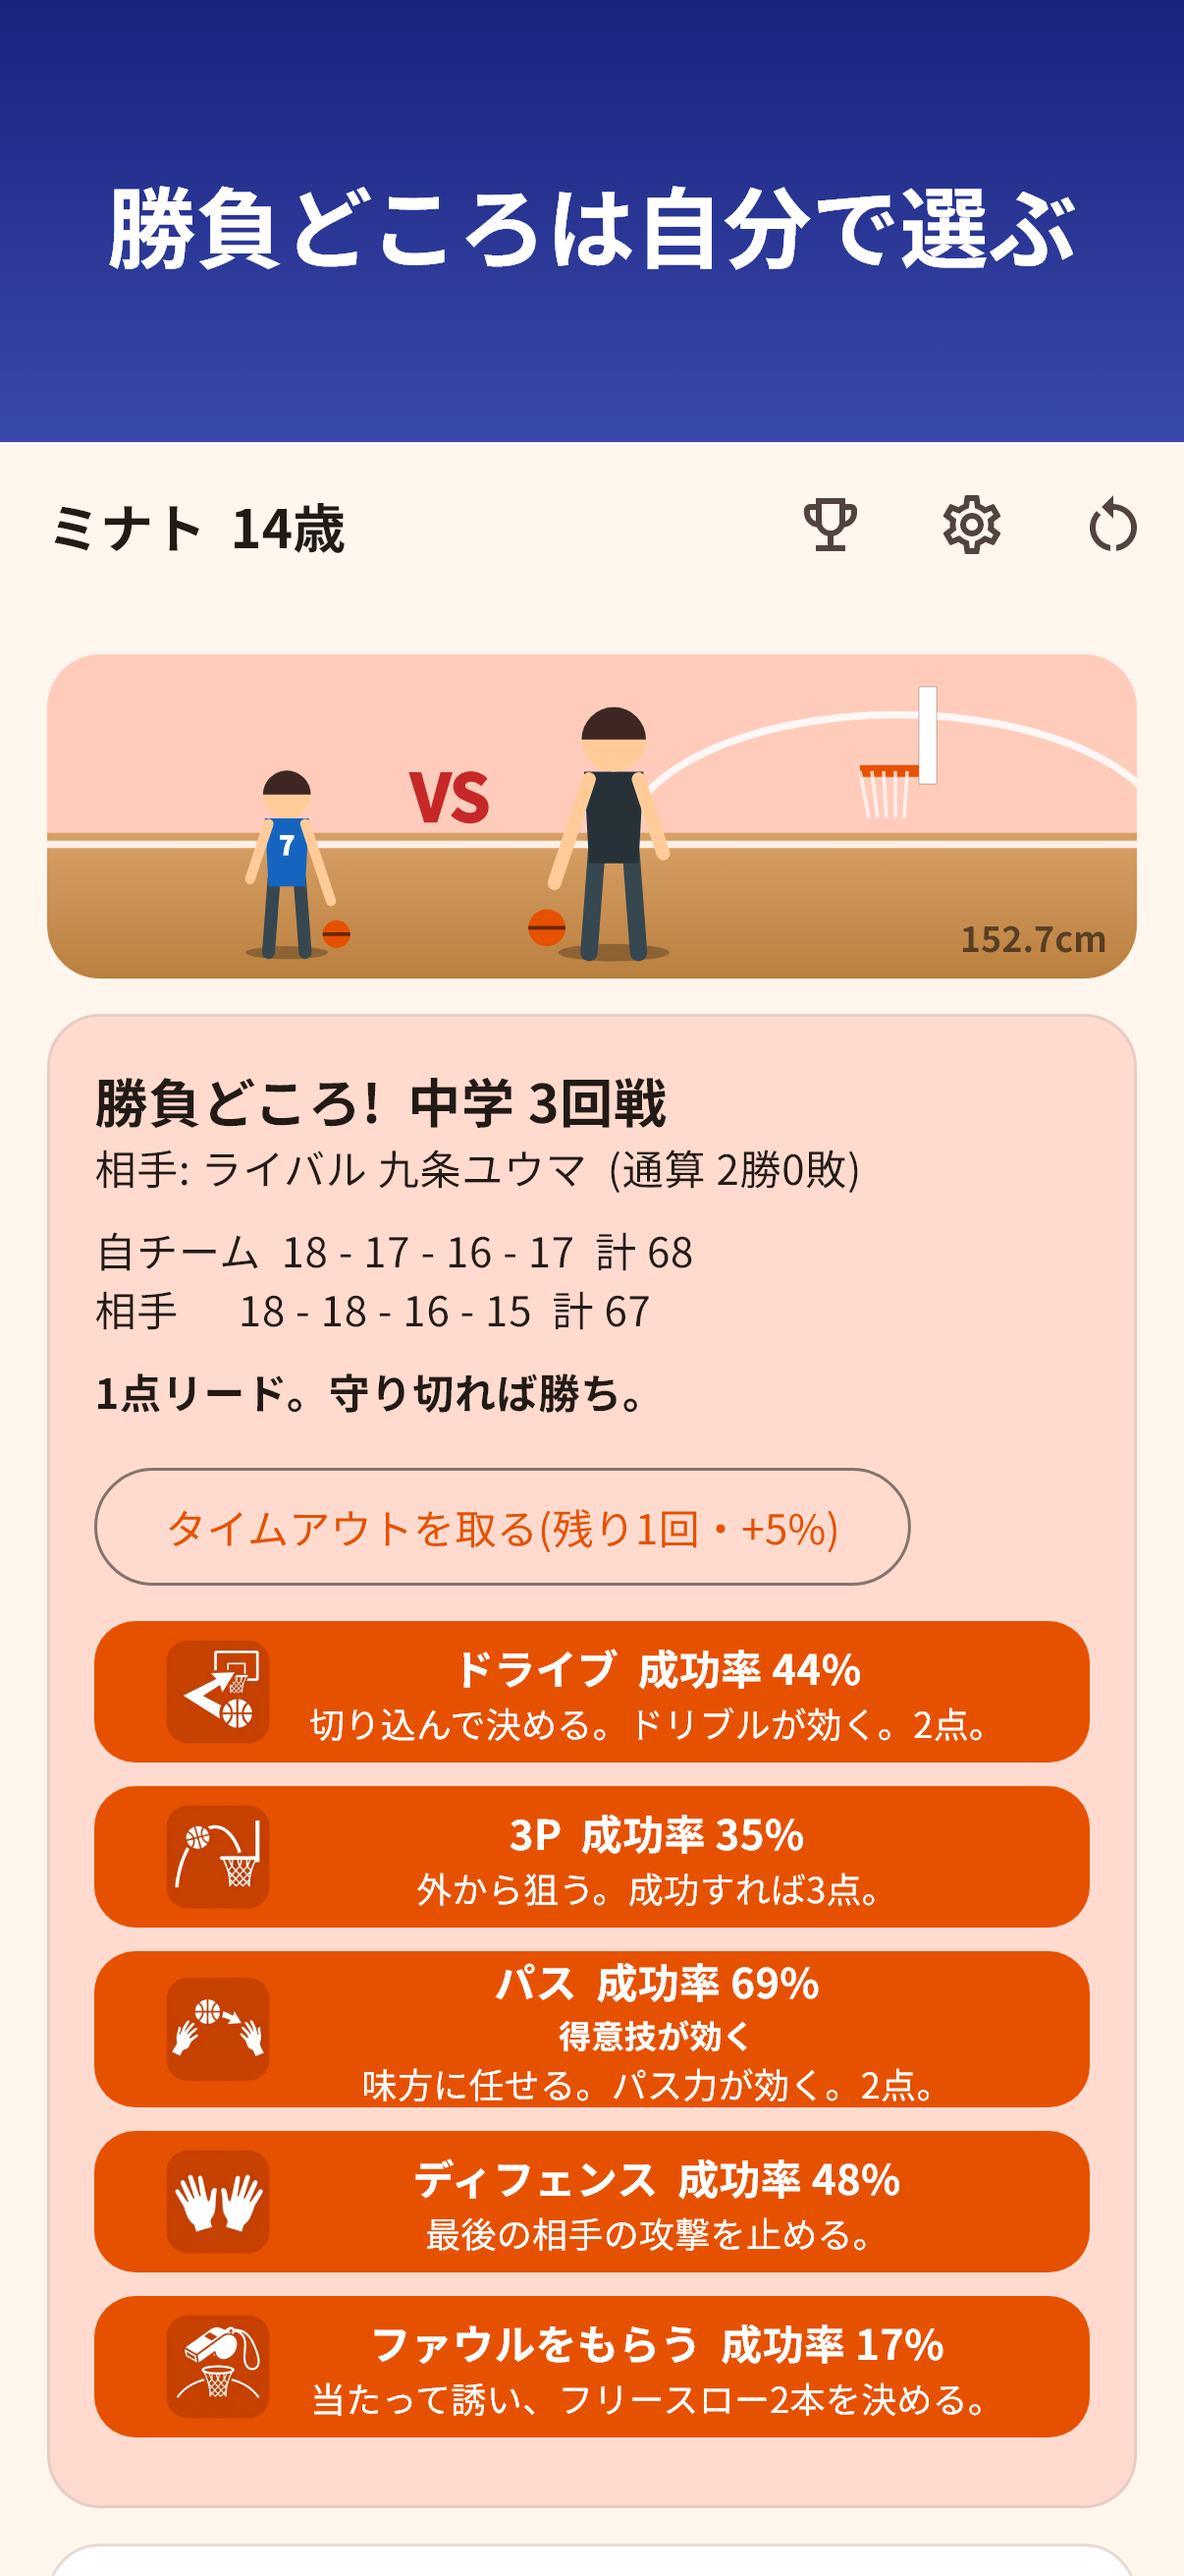
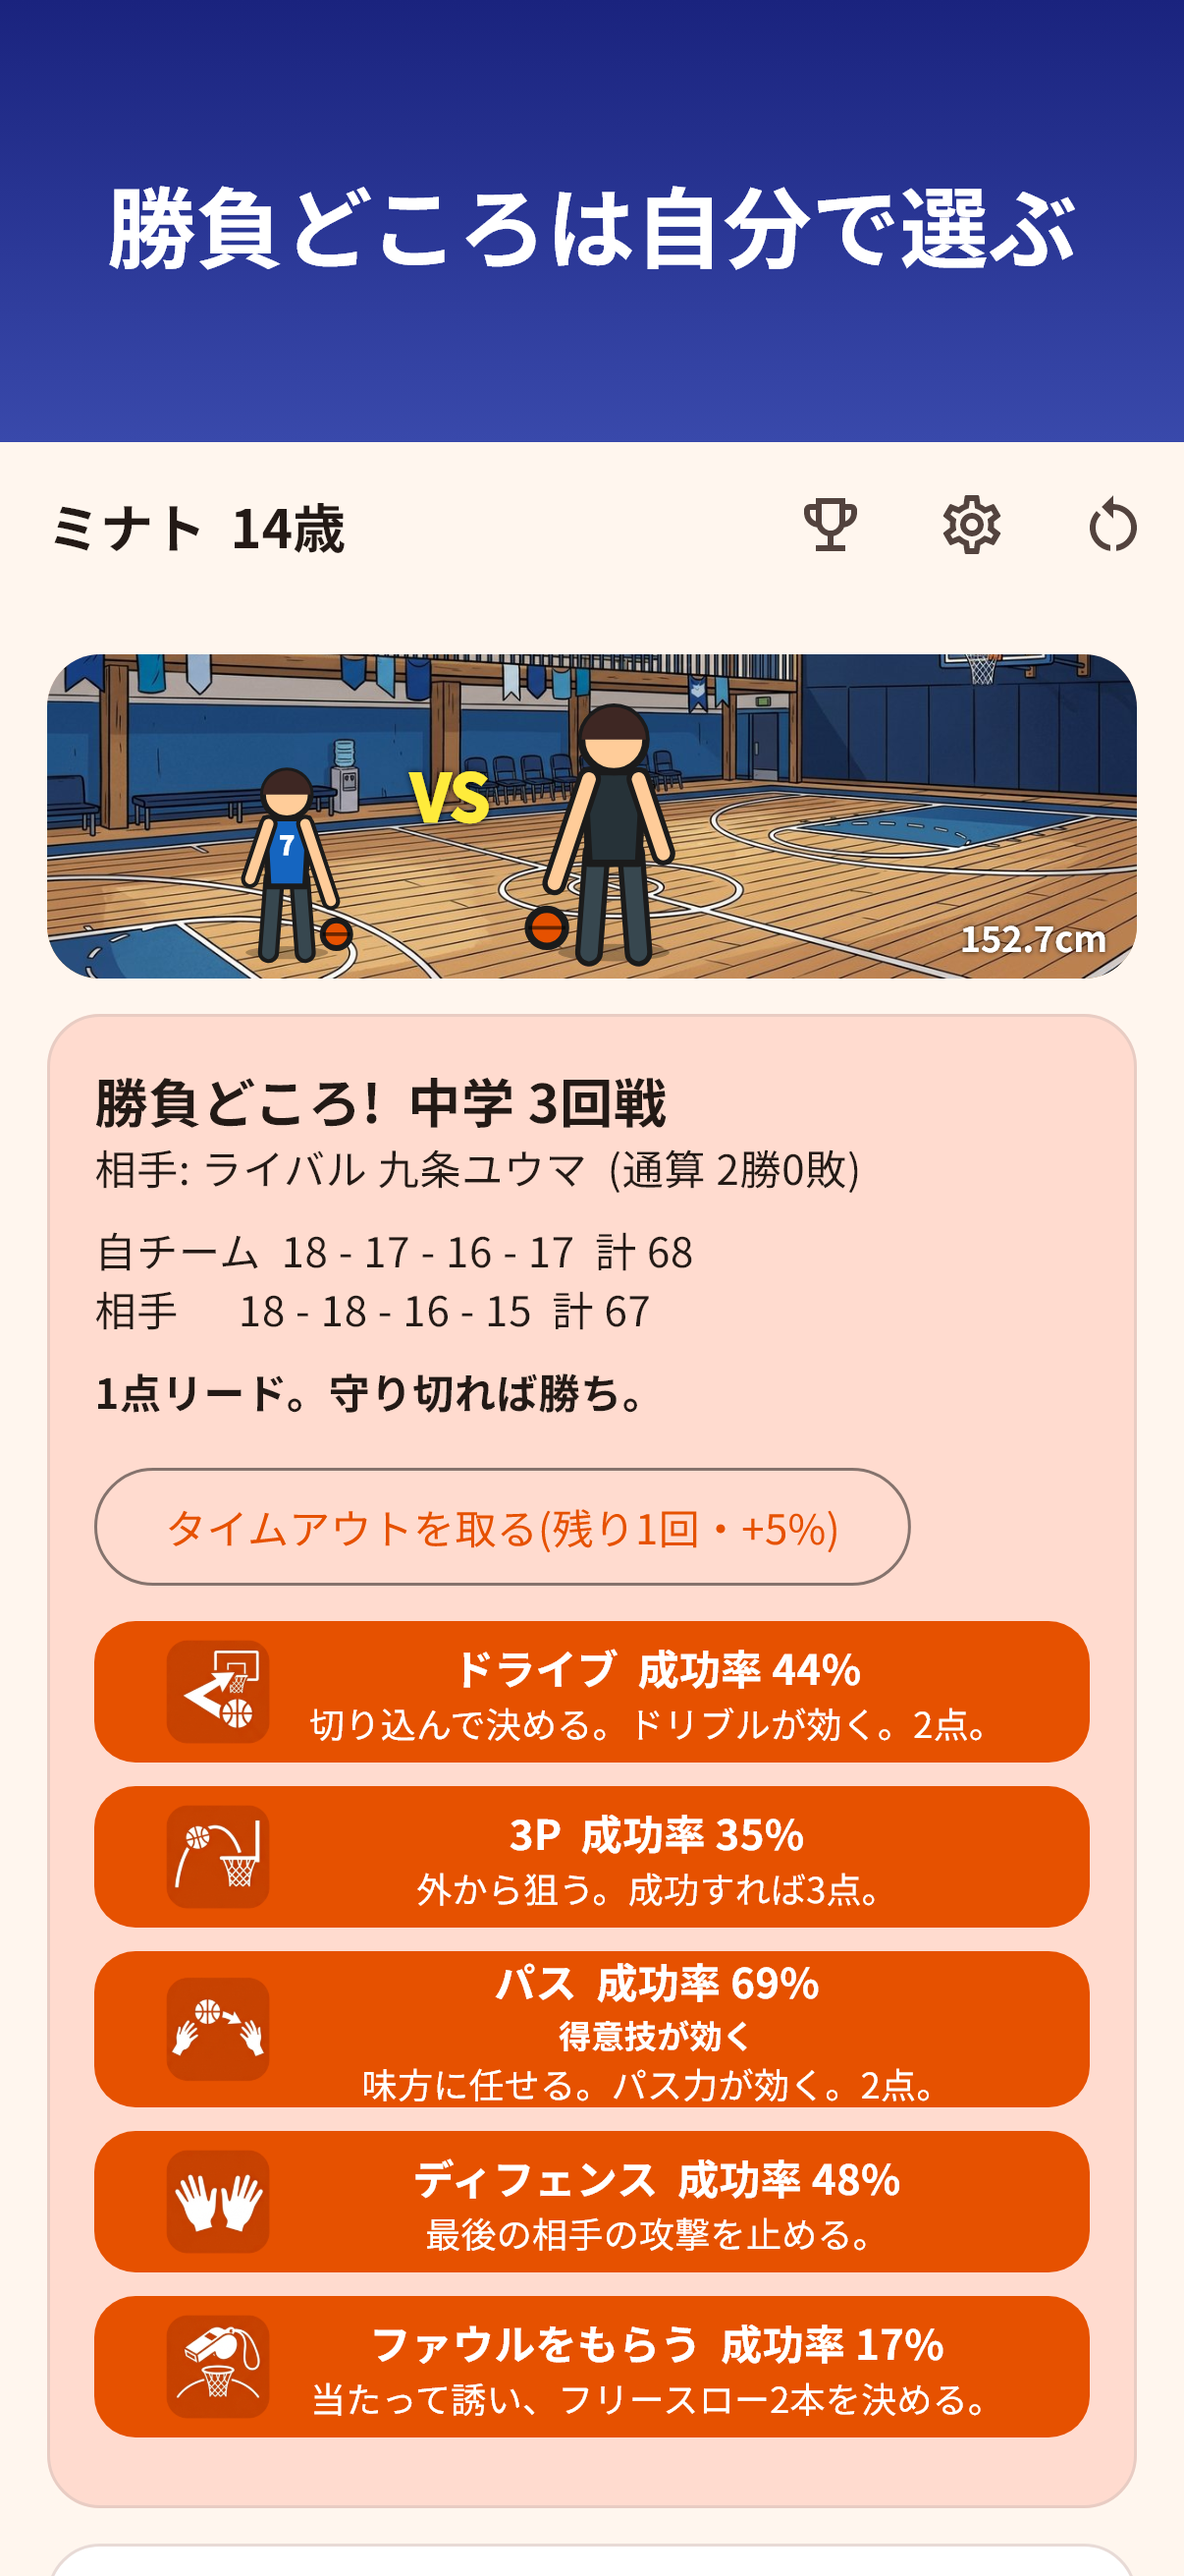
basketball-career: 育成画面の上の絵を、段階ごとの会場の絵(Gemini 生成8枚)に差し替える (#724)
- 小学校・中学・高校・大学・実業団・国内プロ・海外プロ・日本代表(冬の招集)の会場を8枚、assets/art/scene_*.jpg に追加(各約200KB、1200x600)。sceneAsset(Game) が段階から選ぶ
- 選手は背景の絵と画風をそろえるため太い輪郭線を付け、身長の数字とVSは暗い会場でも読めるよう白・黄に影付きにした。絵が読み込めない間・失敗時は従来のコード描画の体育館に戻る(空白にしない)
- 絵の高さを150から190に広げた
- 絵の置き忘れテスト(art_assets_test)を8枚に拡張し、全リーグに会場の絵があることを検査

影響範囲: projects/basketball-career のみ。TestFlight にはまだ上げない

Changed region(s): [[0.0307, 0.2471, 0.9818, 0.4016]]

diff --git a/projects/basketball-career/lib/ui/art/court.dart b/projects/basketball-career/lib/ui/art/court.dart
@@ -3,12 +3,13 @@ import 'dart:math';
 import 'package:flutter/material.dart';
 
 import '../../game/game.dart';
+import '../../game/season.dart';
 
 /// 育成画面の上に出す絵。体育館の床・ゴール・選手をコードで描く(画像は使わない)。
 /// 選手の大きさは身長に比例し、ユニフォームの色は所属で変わる。
 class CourtHeader extends StatelessWidget {
   const CourtHeader(
-      {super.key, required this.game, this.height = 150, this.versus = false});
+      {super.key, required this.game, this.height = 190, this.versus = false});
   final Game game;
   final double height;
 
@@ -22,19 +23,63 @@ class CourtHeader extends StatelessWidget {
       child: SizedBox(
         height: height,
         width: double.infinity,
-        child: CustomPaint(
-          painter: _CourtPainter(
-            heightCm: game.player.heightCm,
-            jersey: jerseyColor(game.track, game.player.age),
-            slot: game.slot,
-            versus: versus,
-            number: game.number,
-          ),
+        child: Stack(
+          fit: StackFit.expand,
+          children: [
+            // 下地はコードで描いた体育館。絵が読み込めない間・失敗したときはこれが見える。
+            CustomPaint(
+              painter: _CourtPainter(
+                heightCm: game.player.heightCm,
+                jersey: jerseyColor(game.track, game.player.age),
+                slot: game.slot,
+                versus: versus,
+                number: game.number,
+                layer: _Layer.background,
+              ),
+            ),
+            // 段階ごとの会場の絵(Gemini で生成。`assets/art/scene_*.jpg`)。
+            Image.asset(
+              sceneAsset(game),
+              fit: BoxFit.cover,
+              alignment: Alignment.bottomCenter,
+              frameBuilder: (context, child, frame, sync) =>
+                  (frame == null && !sync) ? const SizedBox.shrink() : child,
+              errorBuilder: (_, __, ___) => const SizedBox.shrink(),
+            ),
+            CustomPaint(
+              painter: _CourtPainter(
+                heightCm: game.player.heightCm,
+                jersey: jerseyColor(game.track, game.player.age),
+                slot: game.slot,
+                versus: versus,
+                number: game.number,
+                layer: _Layer.foreground,
+              ),
+            ),
+          ],
         ),
       ),
     );
   }
 }
+
+/// いまの段階の会場の絵。大学・実業団・プロは所属、プロは海外、冬の代表招集は代表の会場。
+String sceneAsset(Game g) {
+  final national = g.nationalPending && g.slot == 3 && g.track == Track.pro;
+  final name = switch (national ? League.national : g.league) {
+    League.minibasket => 'minibasket',
+    League.juniorHigh => 'junior',
+    League.highSchool => 'high',
+    League.university => 'university',
+    League.corporate => 'corporate',
+    League.proDomestic => 'pro',
+    League.proAbroad => 'abroad',
+    League.national => 'national',
+  };
+  return 'assets/art/scene_$name.jpg';
+}
+
+enum _Layer { background, foreground }
 
 /// 所属ごとのユニフォーム色。
 Color jerseyColor(Track t, int age) => switch (t) {
@@ -54,7 +99,9 @@ class _CourtPainter extends CustomPainter {
       required this.jersey,
       required this.slot,
       this.versus = false,
-      this.number = 0});
+      this.number = 0,
+      this.layer = _Layer.background});
+  final _Layer layer;
   final double heightCm;
   final Color jersey;
   final int slot;
@@ -64,6 +111,10 @@ class _CourtPainter extends CustomPainter {
   @override
   void paint(Canvas canvas, Size size) {
     final w = size.width, h = size.height;
+    if (layer == _Layer.foreground) {
+      _paintPlayers(canvas, size);
+      return;
+    }
 
     // 壁(季節で少し色を変える)と床。
     final wall = [
@@ -120,6 +171,11 @@ class _CourtPainter extends CustomPainter {
           Offset(rim.dx + 3 + i * 3, rim.dy + 16), net);
     }
 
+  }
+
+  /// 絵(または下地)の上に、選手・VS・身長を重ねる。
+  void _paintPlayers(Canvas canvas, Size size) {
+    final w = size.width, h = size.height;
     // 選手。身長 210cm のとき床から壁近くまで、115cm のとき小さく。
     final scale = (heightCm / 210).clamp(0.5, 1.05);
     final figureH = h * 0.78 * scale;
@@ -135,9 +191,10 @@ class _CourtPainter extends CustomPainter {
           text: 'VS',
           style: TextStyle(
               fontFamily: 'NotoSansJP',
-              color: Color(0xFFC62828),
+              color: Color(0xFFFFEB3B),
               fontSize: 22,
-              fontWeight: FontWeight.w900),
+              fontWeight: FontWeight.w900,
+              shadows: [Shadow(color: Colors.black87, blurRadius: 5)]),
         ),
         textDirection: TextDirection.ltr,
       )..layout();
@@ -150,9 +207,10 @@ class _CourtPainter extends CustomPainter {
         text: '${heightCm.toStringAsFixed(1)}cm',
         style: const TextStyle(
             fontFamily: 'NotoSansJP',
-            color: Colors.black54,
+            color: Colors.white,
             fontSize: 12,
-            fontWeight: FontWeight.bold),
+            fontWeight: FontWeight.bold,
+            shadows: [Shadow(color: Colors.black87, blurRadius: 4)]),
       ),
       textDirection: TextDirection.ltr,
     )..layout();
@@ -182,8 +240,25 @@ class _CourtPainter extends CustomPainter {
         Rect.fromCenter(center: foot, width: fh * 0.45, height: fh * 0.07),
         Paint()..color = Colors.black26);
 
+    // 太い輪郭線(背景の絵と画風をそろえる)。
+    final ink = Paint()
+      ..color = const Color(0xFF1B1B1B)
+      ..style = PaintingStyle.stroke
+      ..strokeWidth = max(2.0, fh * 0.03)
+      ..strokeJoin = StrokeJoin.round
+      ..strokeCap = StrokeCap.round;
+
     // 脚。
     final legW = fh * 0.07;
+    for (final dx in [-1.0, 1.0]) {
+      canvas.drawLine(
+          hip + Offset(dx * legW, 0),
+          foot + Offset(dx * fh * 0.10, 0),
+          Paint()
+            ..color = ink.color
+            ..strokeWidth = legW + ink.strokeWidth * 1.4
+            ..strokeCap = StrokeCap.round);
+    }
     canvas.drawLine(hip + Offset(-legW, 0), foot + Offset(-fh * 0.10, 0),
         dark..strokeWidth = legW..strokeCap = StrokeCap.round);
     canvas.drawLine(hip + Offset(legW, 0), foot + Offset(fh * 0.10, 0),
@@ -197,6 +272,7 @@ class _CourtPainter extends CustomPainter {
       ..lineTo(hip.dx - fh * 0.10, hip.dy + fh * 0.04)
       ..close();
     canvas.drawPath(body, shirt);
+    canvas.drawPath(body, ink);
     // 背番号(胴の中央)。
     if (number > 0 && !flip) {
       final tp = TextPainter(
@@ -217,6 +293,13 @@ class _CourtPainter extends CustomPainter {
 
     // 腕と、ボール。
     final hand = Offset(foot.dx + fh * 0.24, hip.dy + fh * 0.12);
+    final armInk = Paint()
+      ..color = ink.color
+      ..strokeWidth = fh * 0.055 + ink.strokeWidth * 1.4
+      ..strokeCap = StrokeCap.round;
+    canvas.drawLine(neck + Offset(fh * 0.10, fh * 0.03), hand, armInk);
+    canvas.drawLine(neck + Offset(-fh * 0.10, fh * 0.03),
+        Offset(foot.dx - fh * 0.20, hip.dy), armInk);
     final armPaint = Paint()
       ..color = skin.color
       ..strokeWidth = fh * 0.055
@@ -227,11 +310,13 @@ class _CourtPainter extends CustomPainter {
         Offset(foot.dx - fh * 0.20, hip.dy), armPaint);
     final ball = Offset(hand.dx + fh * 0.03, foot.dy - fh * 0.10);
     canvas.drawCircle(ball, fh * 0.075, Paint()..color = const Color(0xFFE65100));
+    canvas.drawCircle(ball, fh * 0.075, ink);
     canvas.drawLine(ball + Offset(-fh * 0.075, 0), ball + Offset(fh * 0.075, 0),
         Paint()..color = Colors.black54..strokeWidth = 1.2);
 
     // 頭。
     canvas.drawCircle(neck + Offset(0, -head), head, skin);
+    canvas.drawCircle(neck + Offset(0, -head), head, ink);
     canvas.drawArc(
       Rect.fromCircle(center: neck + Offset(0, -head), radius: head),
       pi,
@@ -248,5 +333,6 @@ class _CourtPainter extends CustomPainter {
       old.jersey != jersey ||
       old.slot != slot ||
       old.versus != versus ||
+      old.layer != layer ||
       old.number != number;
 }

diff --git a/projects/basketball-career/test/art_assets_test.dart b/projects/basketball-career/test/art_assets_test.dart
@@ -4,6 +4,7 @@ import 'dart:io';
 
 import 'package:basketball_career/game/life.dart';
 import 'package:basketball_career/game/match.dart';
+import 'package:basketball_career/game/season.dart';
 import 'package:flutter_test/flutter_test.dart';
 
 void main() {
@@ -13,6 +14,15 @@ void main() {
     'ending_quiet',
     'path',
     'hall',
+    // 段階ごとの会場(育成画面の上の絵。`sceneAsset` が選ぶ)。
+    'scene_minibasket',
+    'scene_junior',
+    'scene_high',
+    'scene_university',
+    'scene_corporate',
+    'scene_pro',
+    'scene_abroad',
+    'scene_national',
   ];
 
   test('アプリ内の絵がすべて assets にあり、pubspec.yaml に宣言されている', () {
@@ -25,7 +35,7 @@ void main() {
       expect(pubspec, contains('assets/art/$n.jpg'), reason: '$n.jpg が pubspec.yaml に無い');
       total += f.lengthSync();
     }
-    expect(total, lessThan(2 * 1024 * 1024), reason: '絵の合計でアプリを重くしない');
+    expect(total, lessThan(4 * 1024 * 1024), reason: '絵の合計でアプリを重くしない');
   });
 
   test('コードで使っている絵の名前が、置いてある絵と一致する', () {
@@ -39,7 +49,28 @@ void main() {
         used.add(m.group(1)!);
       }
     }
-    expect(used, arts.toSet());
+    // 会場の絵は名前を組み立てて読む(`scene_$name`)ので、別のテストで全段階を確かめる。
+    used.remove('scene_');
+    expect(used, arts.where((n) => !n.startsWith('scene_')).toSet());
+  });
+
+  test('どの段階でも会場の絵が決まり、その絵が置いてある', () {
+    for (final lg in League.values) {
+      expect(
+          File('assets/art/scene_${switch (lg) {
+            League.minibasket => 'minibasket',
+            League.juniorHigh => 'junior',
+            League.highSchool => 'high',
+            League.university => 'university',
+            League.corporate => 'corporate',
+            League.proDomestic => 'pro',
+            League.proAbroad => 'abroad',
+            League.national => 'national',
+          }}.jpg')
+              .existsSync(),
+          isTrue,
+          reason: '${lg.name} の会場の絵が無い');
+    }
   });
 
   test('ボタンのアイコンが、過ごし方・勝負どころ・ハーフタイムの全種類にある', () {
